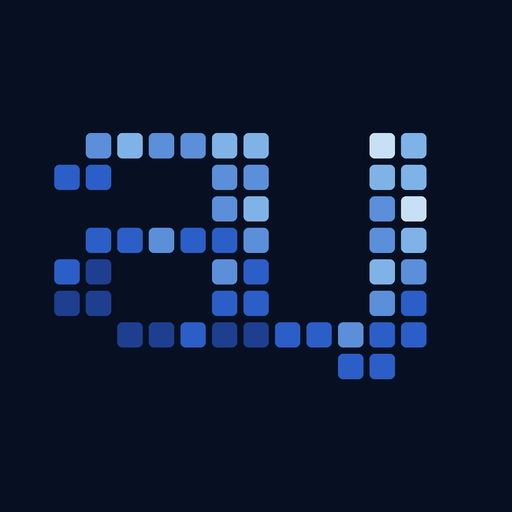
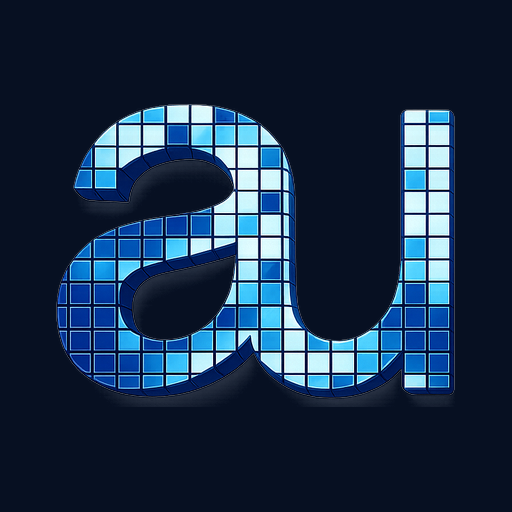
The owner's sign takes the house
His file landed and everything follows it: masters in assets/brand,
a 41KB derivative whitelisted for the chrome, the icon set
regenerated from his art so the phone tile is his avatar in truth.
Paper carries the file because toner has one theme. The chrome
obeys his ruling: Royal wears the file, the other houses relight
the token mark, picked by CSS before first paint. The freeze
lifts; the sign is his own hand.

Changed region(s): [[0.0938, 0.1875, 0.9062, 0.8125]]

diff --git a/src/components/Mosaic.tsx b/src/components/Mosaic.tsx
@@ -1,4 +1,5 @@
 import type { ReactNode } from "react";
+import Image from "next/image";
 
 /* Deterministic mosaic graphics. No images needed: the brand IS the pattern.
    Colours cycle through a pool-to-terracotta palette with an index hash, so
@@ -40,13 +41,10 @@ const AU_GRID = [
    jitter so no two neighbours match. Position picks the tone, the
    hash breaks the banding, and the same arithmetic runs in
    scripts/brand-icons.py. */
-const AU_RAMP = ["#12275e", "#1e3e90", "#2b5fc7", "#5b8fd9", "#7fb3e8", "#c8e0f5"];
-
-/* Two voices, one sign. Brand: the canonical blues, for every
-   surface that is the company's identity to the outside (icons,
-   badges, paper). Room: the same arithmetic over the house tokens,
-   so inside the site and the office the mark relights with the
-   palette and the sun; in the Royal default the two voices agree. */
+/* The token mark's ramp: the room's own metals, the same gradient
+   arithmetic the owner's logo carries. The canonical blues live in
+   his file now (assets/brand, served at /media/logo/mark.png); this
+   ramp exists so the other houses can relight the sign. */
 const AU_ROOM_RAMP = [
   "var(--color-gold-deep)",
   "var(--color-gold-deep)",
@@ -56,8 +54,6 @@ const AU_ROOM_RAMP = [
   "var(--color-ink)",
 ];
 
-export type AuVoice = "room" | "brand";
-
 function auTone(ramp: string[], r: number, c: number, rows: number, cols: number, i: number) {
   const w = 0.55 * (1 - r / (rows - 1)) + 0.45 * (c / (cols - 1));
   const jitter = (((i * 13 + 5) % 5) - 2) * 0.35;
@@ -66,11 +62,11 @@ function auTone(ramp: string[], r: number, c: number, rows: number, cols: number
 }
 
 
-export function AuMark({ className = "", voice = "room" }: { className?: string; voice?: AuVoice }) {
+export function AuMark({ className = "" }: { className?: string }) {
   const T = 10;
   const rows = AU_GRID.length;
   const cols = AU_GRID[0].length;
-  const ramp = voice === "brand" ? AU_RAMP : AU_ROOM_RAMP;
+  const ramp = AU_ROOM_RAMP;
   const w = cols * T;
   const h = rows * T;
   const tiles: React.ReactNode[] = [];
@@ -104,7 +100,28 @@ export function AuMark({ className = "", voice = "room" }: { className?: string;
    picks its legible blue per sun through the brand-word rules in
    globals; the palettes have no say, because a sign is a sign. Size
    the lockup with a font-size on the wrapper: the mark rides at 1em. */
-export function AuLockup({ className = "", voice = "room" }: { className?: string; voice?: AuVoice }) {
+/* The sign with the owner's ruling built in: Royal wears his logo
+   file, every other house relights the token mark. Both render and
+   the palette attribute picks via the mark-file and mark-token
+   rules in globals, flashless because the attribute lands before
+   first paint. */
+export function AuSign({ markClassName = "h-[15px]" }: { markClassName?: string }) {
+  return (
+    <>
+      <Image
+        src="/media/logo/mark.png"
+        alt=""
+        aria-hidden
+        width={473}
+        height={360}
+        className={`mark-file w-auto ${markClassName}`}
+      />
+      <AuMark className={`mark-token w-auto ${markClassName}`} />
+    </>
+  );
+}
+
+export function AuLockup({ className = "" }: { className?: string }) {
   /* Aligned the way the print lockup is set: baselines married, not
      centers. The word has no descenders, so its bottom edge IS the
      baseline; the mark stands on that line, taller than the word's
@@ -112,7 +129,7 @@ export function AuLockup({ className = "", voice = "room" }: { className?: strin
      base) dips under the line exactly as his artwork dips. */
   return (
     <span className={`inline-flex items-end gap-[0.28em] ${className}`}>
-      <AuMark voice={voice} className="h-[1.45em] w-auto shrink-0 translate-y-[0.18em]" />
+      <AuSign markClassName="h-[1.45em] shrink-0 translate-y-[0.18em]" />
       <span className="brand-word font-serif text-[1.4em] leading-none">mosaic</span>
     </span>
   );

diff --git a/src/app/admin/invoice/[id]/page.tsx b/src/app/admin/invoice/[id]/page.tsx
@@ -5,7 +5,7 @@ import { getDb, schema } from "@/db";
 import { hasSession } from "@/lib/admin-auth";
 import { naira } from "@/lib/backoffice";
 import { SITE } from "@/lib/site";
-import { AuMark } from "@/components/Mosaic";
+import Image from "next/image";
 import PrintButton from "../PrintButton";
 
 /* The invoice: a sheet of paper, not a screen. It lives outside the
@@ -78,8 +78,14 @@ export default async function InvoicePage({ params }: { params: Promise<{ id: st
         <header className="flex items-start justify-between gap-8">
           <div>
             <div className="flex items-center gap-2.5 text-[#17150F]">
-              {/* Paper carries the canonical sign: toner has one theme. */}
-              <AuMark voice="brand" className="h-[15px] w-auto" />
+              {/* Paper carries the owner's file: toner has one theme. */}
+              <Image
+                src="/media/logo/mark.png"
+                alt="AU Mosaic"
+                width={473}
+                height={360}
+                className="h-[16px] w-auto"
+              />
               <span className="text-[11px] font-semibold uppercase tracking-[0.18em]">
                 Mosaic
               </span>

diff --git a/src/app/globals.css b/src/app/globals.css
@@ -264,6 +264,14 @@ p { text-wrap: pretty; }
   box-shadow: inset 0 1px 0 rgb(255 255 255 / 0.05);
 }
 
+/* The owner's ruling on the sign: the Royal house wears his logo
+   file; every other house relights the token mark. Both live in
+   the tree and the palette attribute picks before first paint, so
+   the swap can never flash. */
+.mark-file { display: none; }
+[data-palette="royal"] .mark-file { display: inline-block; }
+[data-palette="royal"] .mark-token { display: none; }
+
 /* The sign's word: gradient glass like his print, light falling
    from the top. In the chrome it reads the house tokens, so the
    word relights with the palette and the sun; in the Royal default

diff --git a/src/app/admin/(panel)/layout.tsx b/src/app/admin/(panel)/layout.tsx
@@ -3,7 +3,7 @@ import Link from "next/link";
 import { redirect } from "next/navigation";
 import { sql } from "drizzle-orm";
 import { getDb, rowsOf } from "@/db";
-import { AuMark } from "@/components/Mosaic";
+import { AuSign } from "@/components/Mosaic";
 import { AdminTabBar, AdminTopNav } from "@/components/AdminNav";
 import PalettePicker from "@/components/PalettePicker";
 import ThemeToggle from "@/components/ThemeToggle";
@@ -61,7 +61,7 @@ export default async function AdminLayout({ children }: { children: React.ReactN
     <div className="admin-rooms tabular-nums mx-auto flex min-h-svh max-w-6xl flex-col px-5 pb-32 sm:px-8 sm:pb-24">
       <header className="flex items-center justify-between gap-6 pb-10 pt-8">
         <Link href="/admin" className="flex shrink-0 items-center gap-2.5" aria-label="Back office home">
-          <AuMark className="h-[14px] w-auto" />
+          <AuSign markClassName="h-[15px]" />
           <span className="whitespace-nowrap text-[11px] font-semibold uppercase tracking-[0.18em] text-ink">
             Back office
           </span>

diff --git a/src/app/admin/login/page.tsx b/src/app/admin/login/page.tsx
@@ -1,7 +1,7 @@
 "use client";
 
 import { useActionState, useState } from "react";
-import { AuMark } from "@/components/Mosaic";
+import { AuSign } from "@/components/Mosaic";
 import { IconEye } from "../(panel)/icons";
 import { keepValues } from "../(panel)/keep";
 import { login } from "./actions";
@@ -16,7 +16,7 @@ export default function AdminLogin() {
     <main className="flex min-h-svh items-center justify-center px-5">
       <div className="panel w-full max-w-sm">
         <div className="flex items-center gap-2.5">
-          <AuMark className="h-[15px] w-auto" />
+          <AuSign markClassName="h-[15px]" />
           <span className="text-[11px] font-semibold uppercase tracking-[0.18em] text-ink">
             Back office
           </span>

diff --git a/scripts/brand-icons.py b/scripts/brand-icons.py
@@ -1,74 +1,38 @@
-"""Regenerate the app icons from the au mosaic mark.
-Keep the grid, ramp, and gradient arithmetic in sync with AuMark in
-src/components/Mosaic.tsx.
+"""Regenerate the app icons from the owner's logo file.
+The canonical mark is his art at assets/brand/au-logo-master.png;
+this script trims the whisper-alpha padding, sets the mark on the
+royal night canvas, and writes the icon set. The chrome's
+theme-following pixel mark lives separately in AuMark
+(src/components/Mosaic.tsx) and is not generated here.
 Run from the repo root:  python3 scripts/brand-icons.py"""
 
-from PIL import Image, ImageDraw
+from PIL import Image
 
-# Joined as his sign joins them: one shared stroke, the a's bowl
-# rounding at its lower left, the u's tail dipping below the
-# baseline and hooking back.
-GRID = [
-    ".######...##.",
-    "##...##...##.",
-    ".....##...##.",
-    ".######...##.",
-    "##...##...##.",
-    "##...##...##.",
-    "..##########.",
-    ".........##..",
-]
-
-# The light lives in the sign: deep navy bottom-left brightening to
-# glass top-right, hash jitter breaking the banding.
-RAMP = ["#12275e", "#1e3e90", "#2b5fc7", "#5b8fd9", "#7fb3e8", "#c8e0f5"]
-NIGHT = (7, 16, 34)
-
-T = 10
-ROWS, COLS = len(GRID), len(GRID[0])
-BOX_W, BOX_H = COLS * T, ROWS * T
+MASTER = "assets/brand/au-logo-master.png"
+NIGHT = (7, 16, 34, 255)
 
 
-def tone(r, c, i):
-    w = 0.55 * (1 - r / (ROWS - 1)) + 0.45 * (c / (COLS - 1))
-    jitter = (((i * 13 + 5) % 5) - 2) * 0.35
-    idx = min(len(RAMP) - 1, max(0, round(w * (len(RAMP) - 1) + jitter)))
-    return RAMP[idx]
+def trimmed():
+    im = Image.open(MASTER).convert("RGBA")
+    a = im.split()[3].point(lambda v: 255 if v > 24 else 0)
+    return im.crop(a.getbbox())
 
 
-def hex_rgb(h):
-    h = h.lstrip("#")
-    return tuple(int(h[i:i + 2], 16) for i in (0, 2, 4))
+def draw_mark(size, mark):
+    img = Image.new("RGBA", (size, size), NIGHT)
+    # The mark fills 78% of the tile's width, centred.
+    w = int(size * 0.78)
+    h = int(w * mark.height / mark.width)
+    if h > size * 0.82:
+        h = int(size * 0.82)
+        w = int(h * mark.width / mark.height)
+    m = mark.resize((w, h), Image.LANCZOS)
+    img.paste(m, ((size - w) // 2, (size - h) // 2), m)
+    return img
 
 
-def draw_mark(size):
-    ss = 4
-    S = size * ss
-    k = (S * 0.80) / BOX_W
-    ox = (S - BOX_W * k) / 2
-    oy = (S - BOX_H * k) / 2
-    img = Image.new("RGBA", (S, S), NIGHT + (255,))
-    d = ImageDraw.Draw(img, "RGBA")
-
-    i = 0
-    for r in range(ROWS):
-        for c in range(COLS):
-            i += 1
-            if GRID[r][c] != "#":
-                continue
-            x = ox + (c * T + 1) * k
-            y = oy + (r * T + 1) * k
-            s = (T - 2) * k
-            d.rounded_rectangle(
-                [x, y, x + s, y + s],
-                radius=max(1, s * 0.2),
-                fill=hex_rgb(tone(r, c, i)),
-            )
-    return img.resize((size, size), Image.LANCZOS)
-
-
-draw_mark(512).save("src/app/icon.png")
-draw_mark(180).save("src/app/apple-icon.png")
-fav = draw_mark(48)
-fav.save("src/app/favicon.ico", sizes=[(48, 48)])
-print("icons rebuilt: icon.png 512, apple-icon.png 180, favicon.ico 48")
+mark = trimmed()
+draw_mark(512, mark).save("src/app/icon.png", optimize=True)
+draw_mark(180, mark).save("src/app/apple-icon.png", optimize=True)
+draw_mark(48, mark).save("src/app/favicon.ico", sizes=[(48, 48)])
+print("icons rebuilt from the owner's logo: 512, 180, 48")

diff --git a/docs/CRM.md b/docs/CRM.md
@@ -394,13 +394,15 @@ that must keep the ledger honest without hard deletes), the order
 the owner is now collecting; trade returns at Agric Market are
 routine, so this likely earns a place ahead of some Phase 3 quotes.
 
-**The mark is frozen (2026-07-04): the owner draws the logo.** After
-the letterform attempt was reverted and the silhouette refused,
-Dyrane is creating the logo himself. Until his file lands in the
-folder, no session touches AuMark, the lockup, the icons, or the
-brand ramps. When it lands: wire it canonical (favicon, app tiles,
-PWA, paper), and ask him then whether the chrome keeps the two-voice
-token relighting or carries his file fixed.
+**The mark landed (2026-07-04): the owner drew the logo.** Masters
+live in assets/brand (au-logo-master.png, au-logo-3d.png, never
+served); the chrome derivative is public/media/logo/mark.png, 41KB
+quantized. Canonical everywhere the company faces outward: icons,
+favicon, PWA tiles, invoice paper, all generated from his file by
+scripts/brand-icons.py. His ruling on the chrome: Royal wears the
+file, every other house relights the token AuMark, switched by CSS
+(mark-file and mark-token classes) on the palette attribute, so the
+swap is flashless. The freeze is lifted; the sign is his.
 
 **Phase 3 quotes, not builds:** payments inbox via Mono or Okra bank
 feed (unmatched inflows, tap to attach, suggest by amount and open

diff --git a/docs/QA.md b/docs/QA.md
@@ -298,6 +298,7 @@ until a logo asset exists.
 | The sign finds its two voices | The owner's ruling, and the right one: the blue sign is canonical wherever the company faces the world, and the chrome relights with the house. The mark gains a voice: brand keeps the fixed blues for the favicon, the app tiles, the push badge, and the invoice paper, because toner has one theme; room runs the same gradient arithmetic over the palette tokens, so the header, footer, and office mark follow every house and both suns, and in the Royal default the two voices agree to the tile. The wordmark's gradient goes token-driven the same way. And the physical shop sign taught one more letterform truth: the u's foot kicks right past its stem, so the grid grew its thirteenth column. Icons regenerated canonical; the print lockup's lowercase serif stays the digital lockup. Lint clean, 45 routes build. |
 | The stroke learns to curve | The owner cut two things with one look: the scattered tiles before the a leave (a flourish his sign never asked for), and the letterforms earn their curves at the lower ends. The a's bowl now rounds at its bottom left, the base stepping in beneath the side wall, and the u gains the tail his artwork has carried all along: the stroke dips below the baseline and hooks left, one grid row deeper. A first attempt read as a numeral 4 and was caught by the eye before it shipped; the tail moved from under the stem to under the bowl and the false foot at the base's end retired. Both renderers share the grid; icons regenerated. Lint clean, 45 routes build. |
 | Baselines married | The owner named the greatest task: align the word to the sign. The print lockup rules it, baselines married and not centers: the word mosaic has no descenders so its bottom edge is the baseline, the mark now stands on that line taller than the word's x-height, and the tail row dips below it by exactly its eighth, the way his artwork dips. items-end replaces items-center, the mark grows to 1.45em against the word's 1.4, and the translate carries the tail under the line. Header and footer inherit through the one lockup. His flat render is still waiting to land as a file; the alignment is ready to receive it. Lint clean, 45 routes build. |
+| The owner's sign takes the house | His file landed and everything follows it. Masters filed in assets/brand, the 3d render kept for the dream lane; the served derivative trimmed past the whisper-alpha, quantized from 238KB to 41KB. The icon set regenerates from his art on the royal night canvas and the phone tile is now his avatar in truth, not in tribute. The paper carries his file because toner has one theme. And the chrome obeys his ruling: Royal wears the file, the other houses relight the token mark, both rendered and picked by CSS on the palette attribute before first paint, flashless. The lockup marries his mark to the word on the baseline law already shipped. The freeze lifts; the sign above the door is finally the owner's own hand. Lint clean, 45 routes build. |
 | The silhouette dies in the showroom | The smooth-outline experiment ran as a picture in a folder, never a commit: bitmap to marching squares to Chaikin curves, fine tesserae clipped inside, edge tiles slicing like the print. The owner's eye ruled in three words and the ruling is final: the pixel-grid sign IS the identity. No smooth-silhouette treatment of the mark again; the letterform question is closed unless the client's own source file reopens it. Nothing shipped, nothing reverted, one lesson recorded. |
 | The boundary audit, checklist one | The owner's first stacked checklist, run and written. The walk found two missing doors and one scattered truth. The public flagship had no error boundary at all: a client crash (the visualizer being the likeliest) would have shown a customer the machinery; the maison now answers with a calm line, a gold Try again, and the chat that never goes down, while details whisper only to the console. Office 404s used to walk the owner out to the shop window; That page is not in the book now keeps him inside, one gold back to the glance. And rowsOf moved home: one normaliser owned by src/db, imported at every raw execute (insights, panel layout, digest), so no room maps the driver envelope again. Verified in the same pass: redirects and notFound throw outside every try, actions answer in sentences instead of throwing at the UI, the panel layout re-checks the door on every render so Try again cannot swallow an auth redirect, and global-error stays honestly Missing, accepted, until the static shell ever earns one. The audit table lives in SAAS-QA. Lint clean, 44 routes build. |
 | The float steps aside on piece pages | The owner's design question, answered by the house's own laws. The WhatsApp float is the one saturated brand-foreign colour in the maison (the palette law says no saturated fills), it competes with the gold singleton (standing rule 19), and it speaks Material where the house speaks HIG. On piece pages it was strictly redundant: the piece bar already carries the same WhatsApp action in house clothes, and the two shared the bottom edge. So it steps aside there, one floating chrome per screen. Everywhere else it keeps its seat for now, because Lagos knows the green circle and law 6 says commerce stays human. The verdict on the rest belongs to evidence: the float signs its taps (data-wa float), so the Where the taps come from panel decides in a few weeks whether it stays, dresses in house clothes, or retires. Lint clean, 44 routes build. |